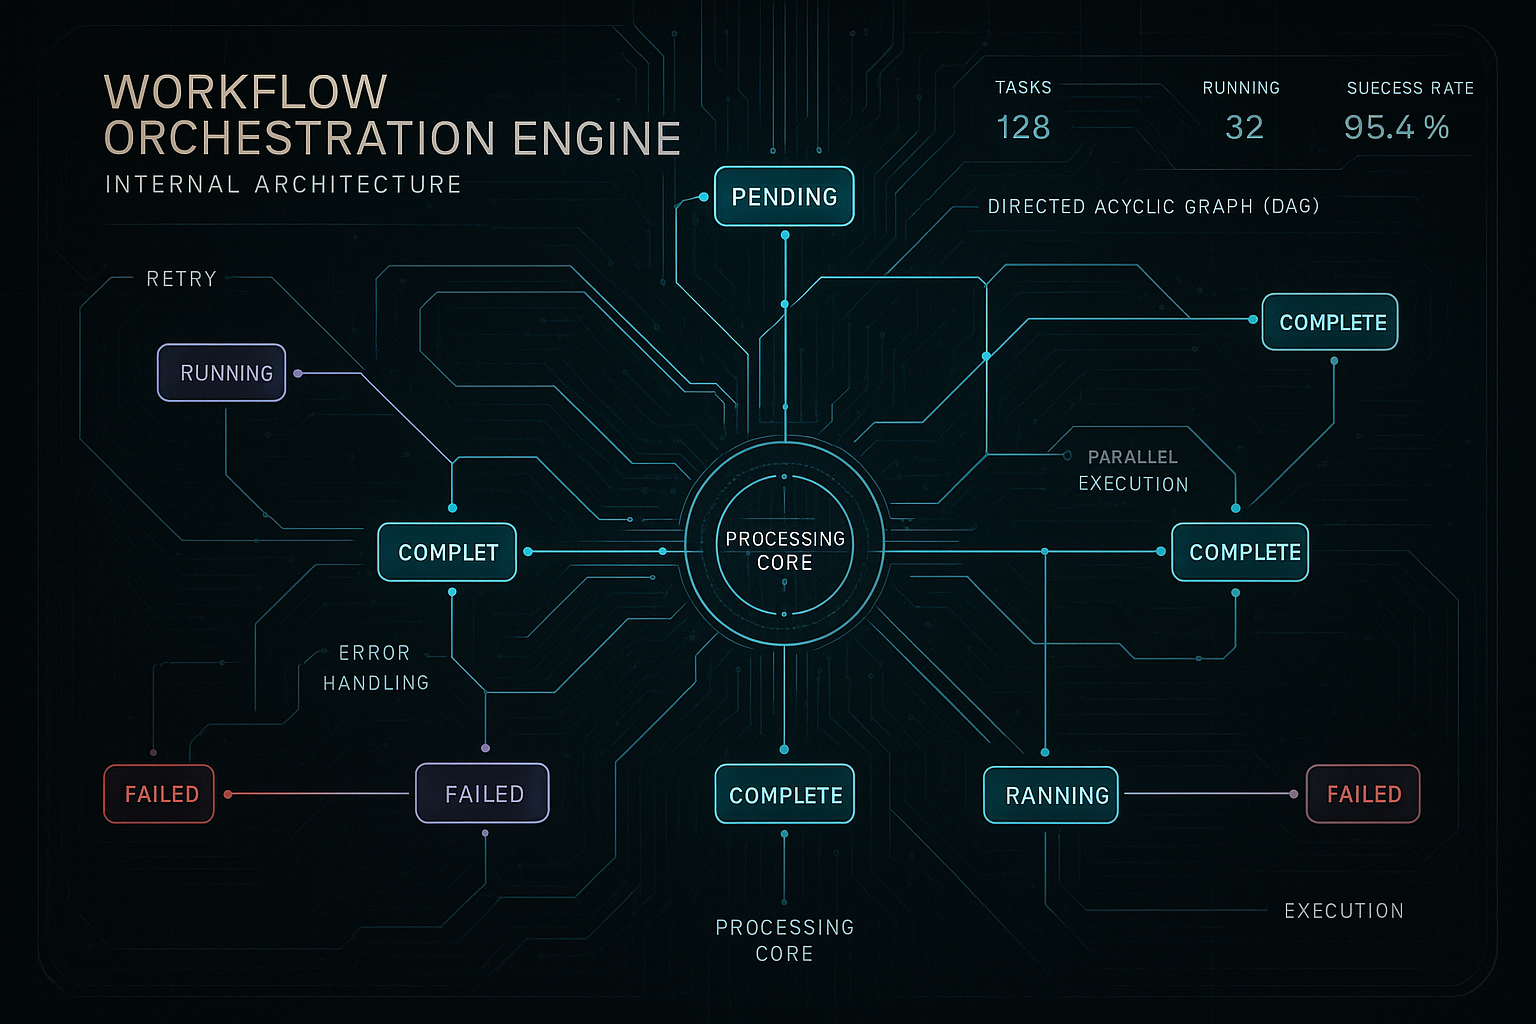
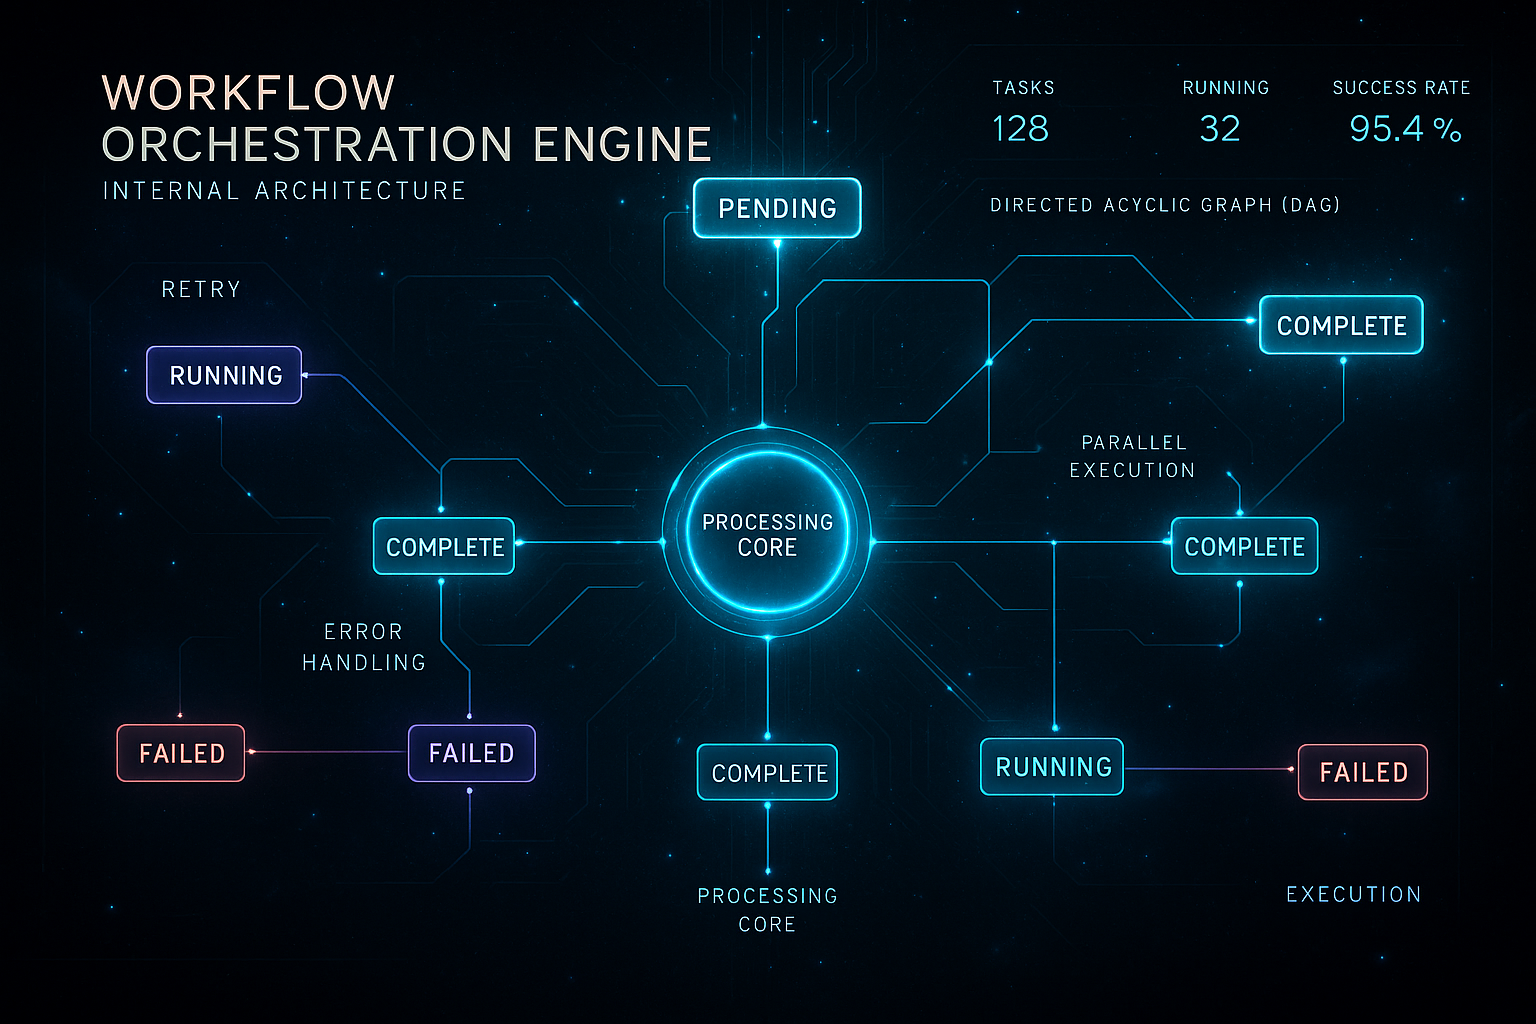
Checkpoint: Fixed workflow engine image by replacing the original file with holographic version. Now workflow-engine-core.png contains the premium holographic visualization with starry constellation background, glowing PROCESSING CORE, and particle effects. All images across Home and Features pages 

diff --git a/client/src/pages/Home.tsx b/client/src/pages/Home.tsx
@@ -296,7 +296,7 @@ export default function Home() {
               <CardContent className="space-y-6">
                 <div className="grid md:grid-cols-2 lg:grid-cols-3 gap-6">
                   <div className="space-y-3">
-                    <img src="/workflow-engine-holographic.png?v=20251022" alt="Workflow Orchestration Engine" className="rounded-lg border border-border/50 hover:scale-105 transition-transform duration-300" />
+                    <img src="/workflow-engine-core.png?v=final2025" alt="Workflow Orchestration Engine" className="rounded-lg border border-border/50 hover:scale-105 transition-transform duration-300" />
                     <div>
                       <h4 className="font-semibold text-sm text-primary">Workflow Engine</h4>
                       <p className="text-xs text-muted-foreground">DAG-based execution with automatic retry logic</p>
